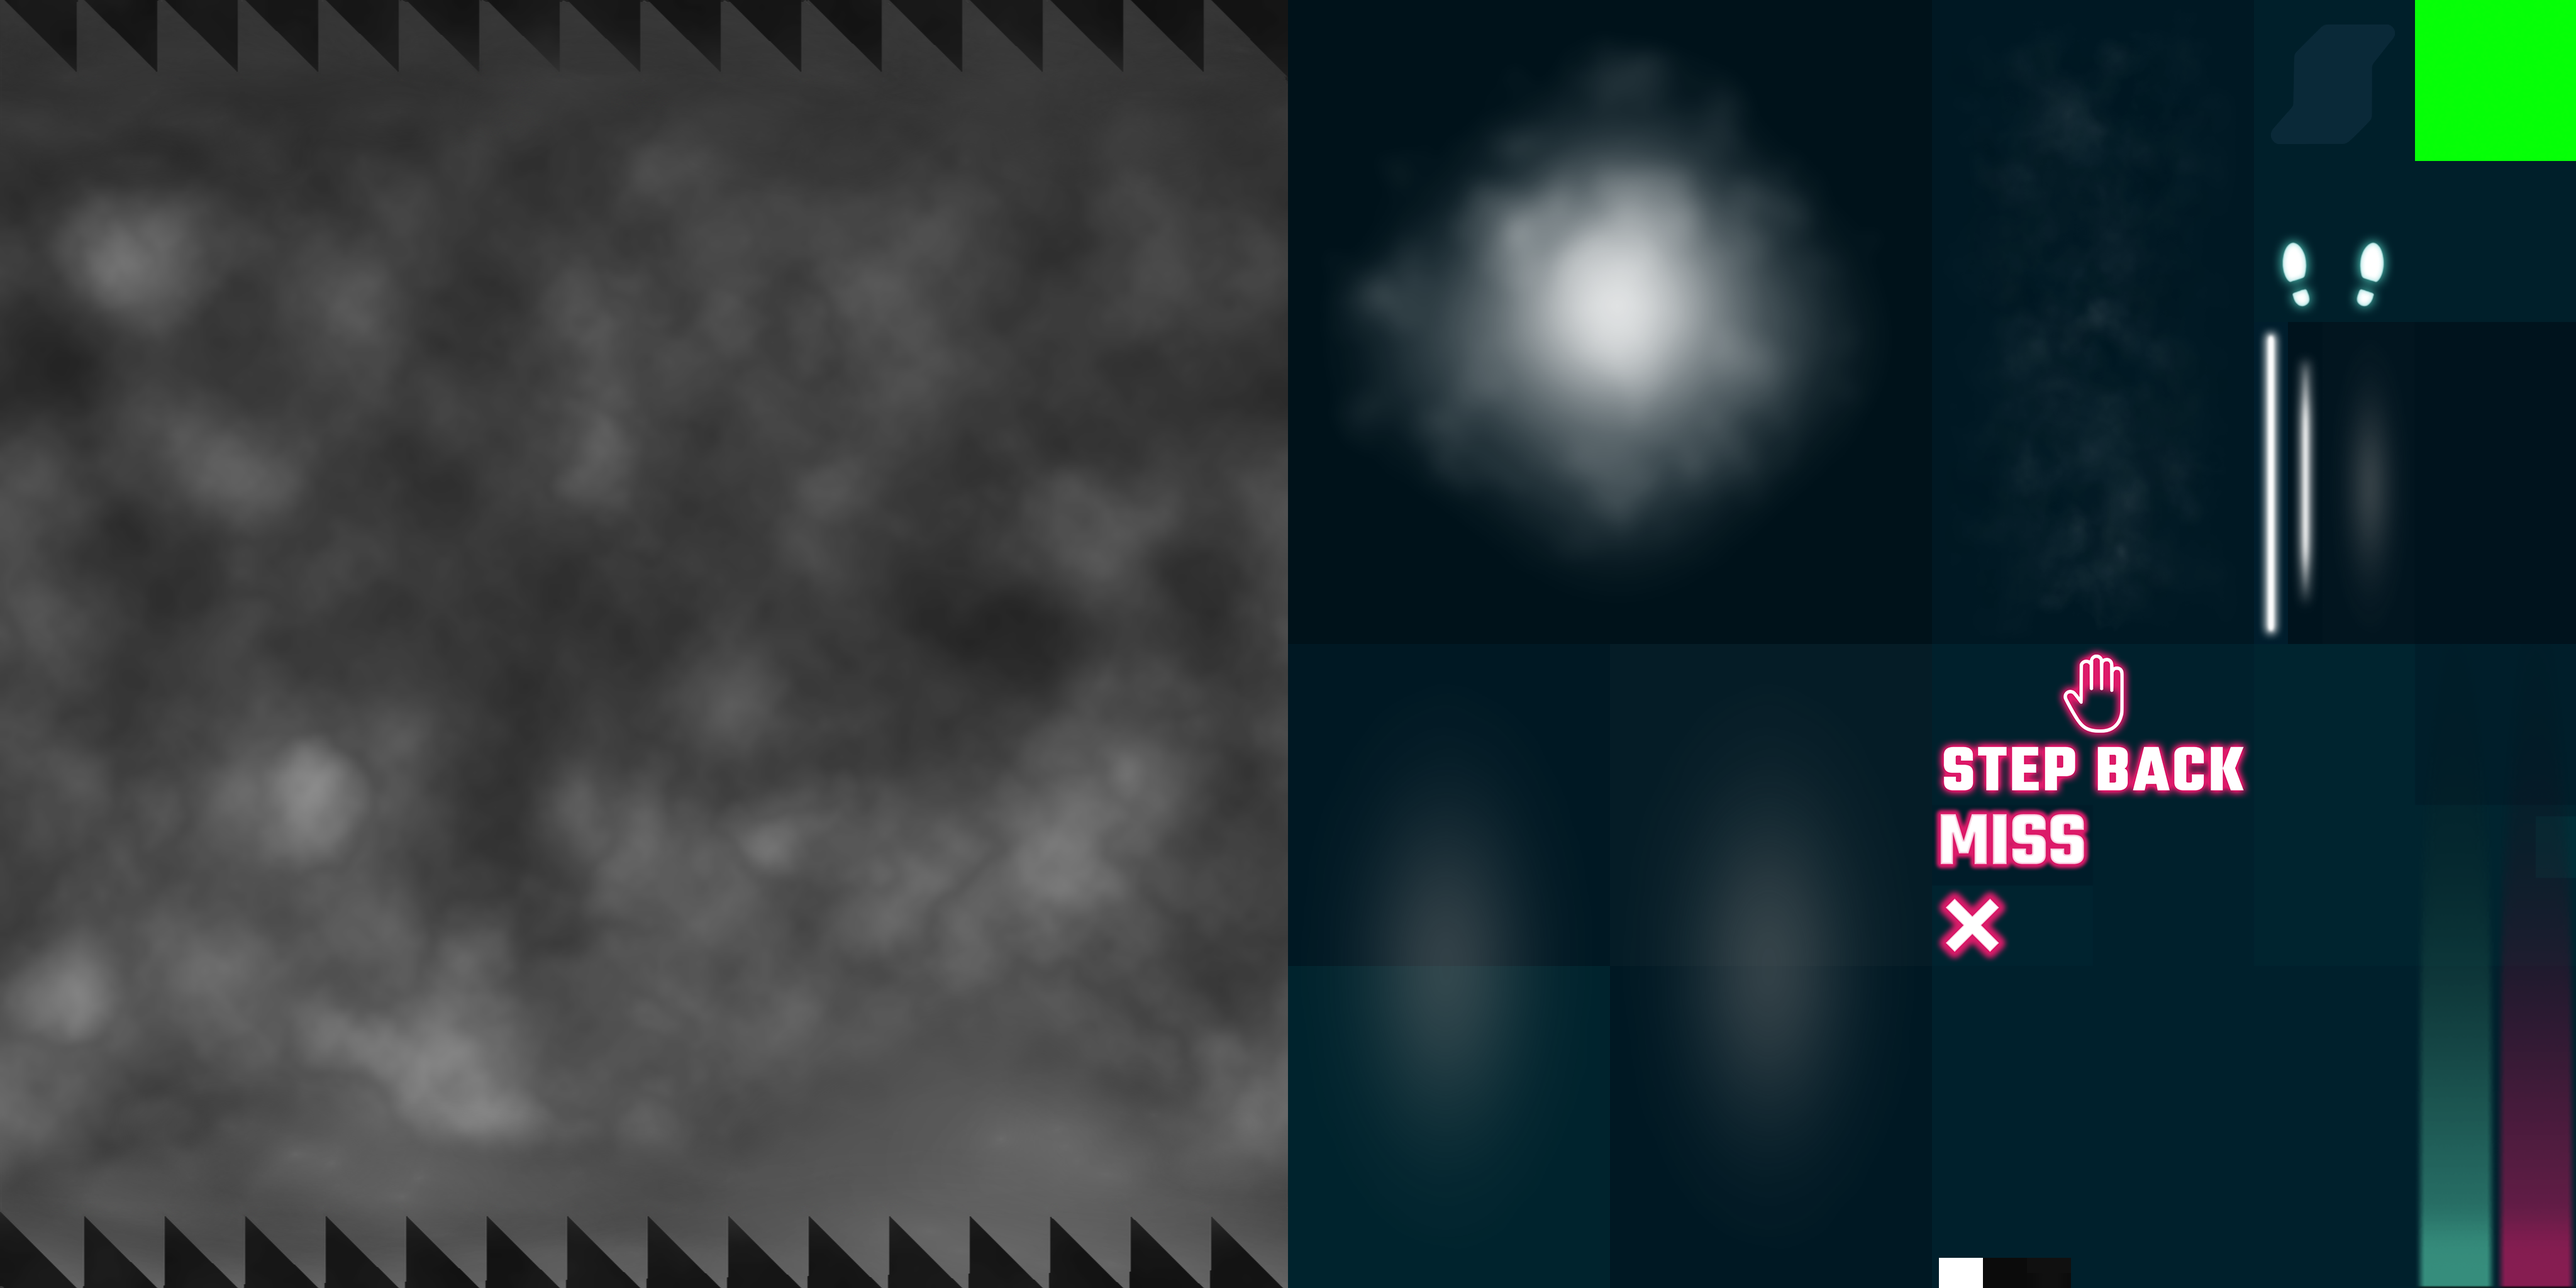
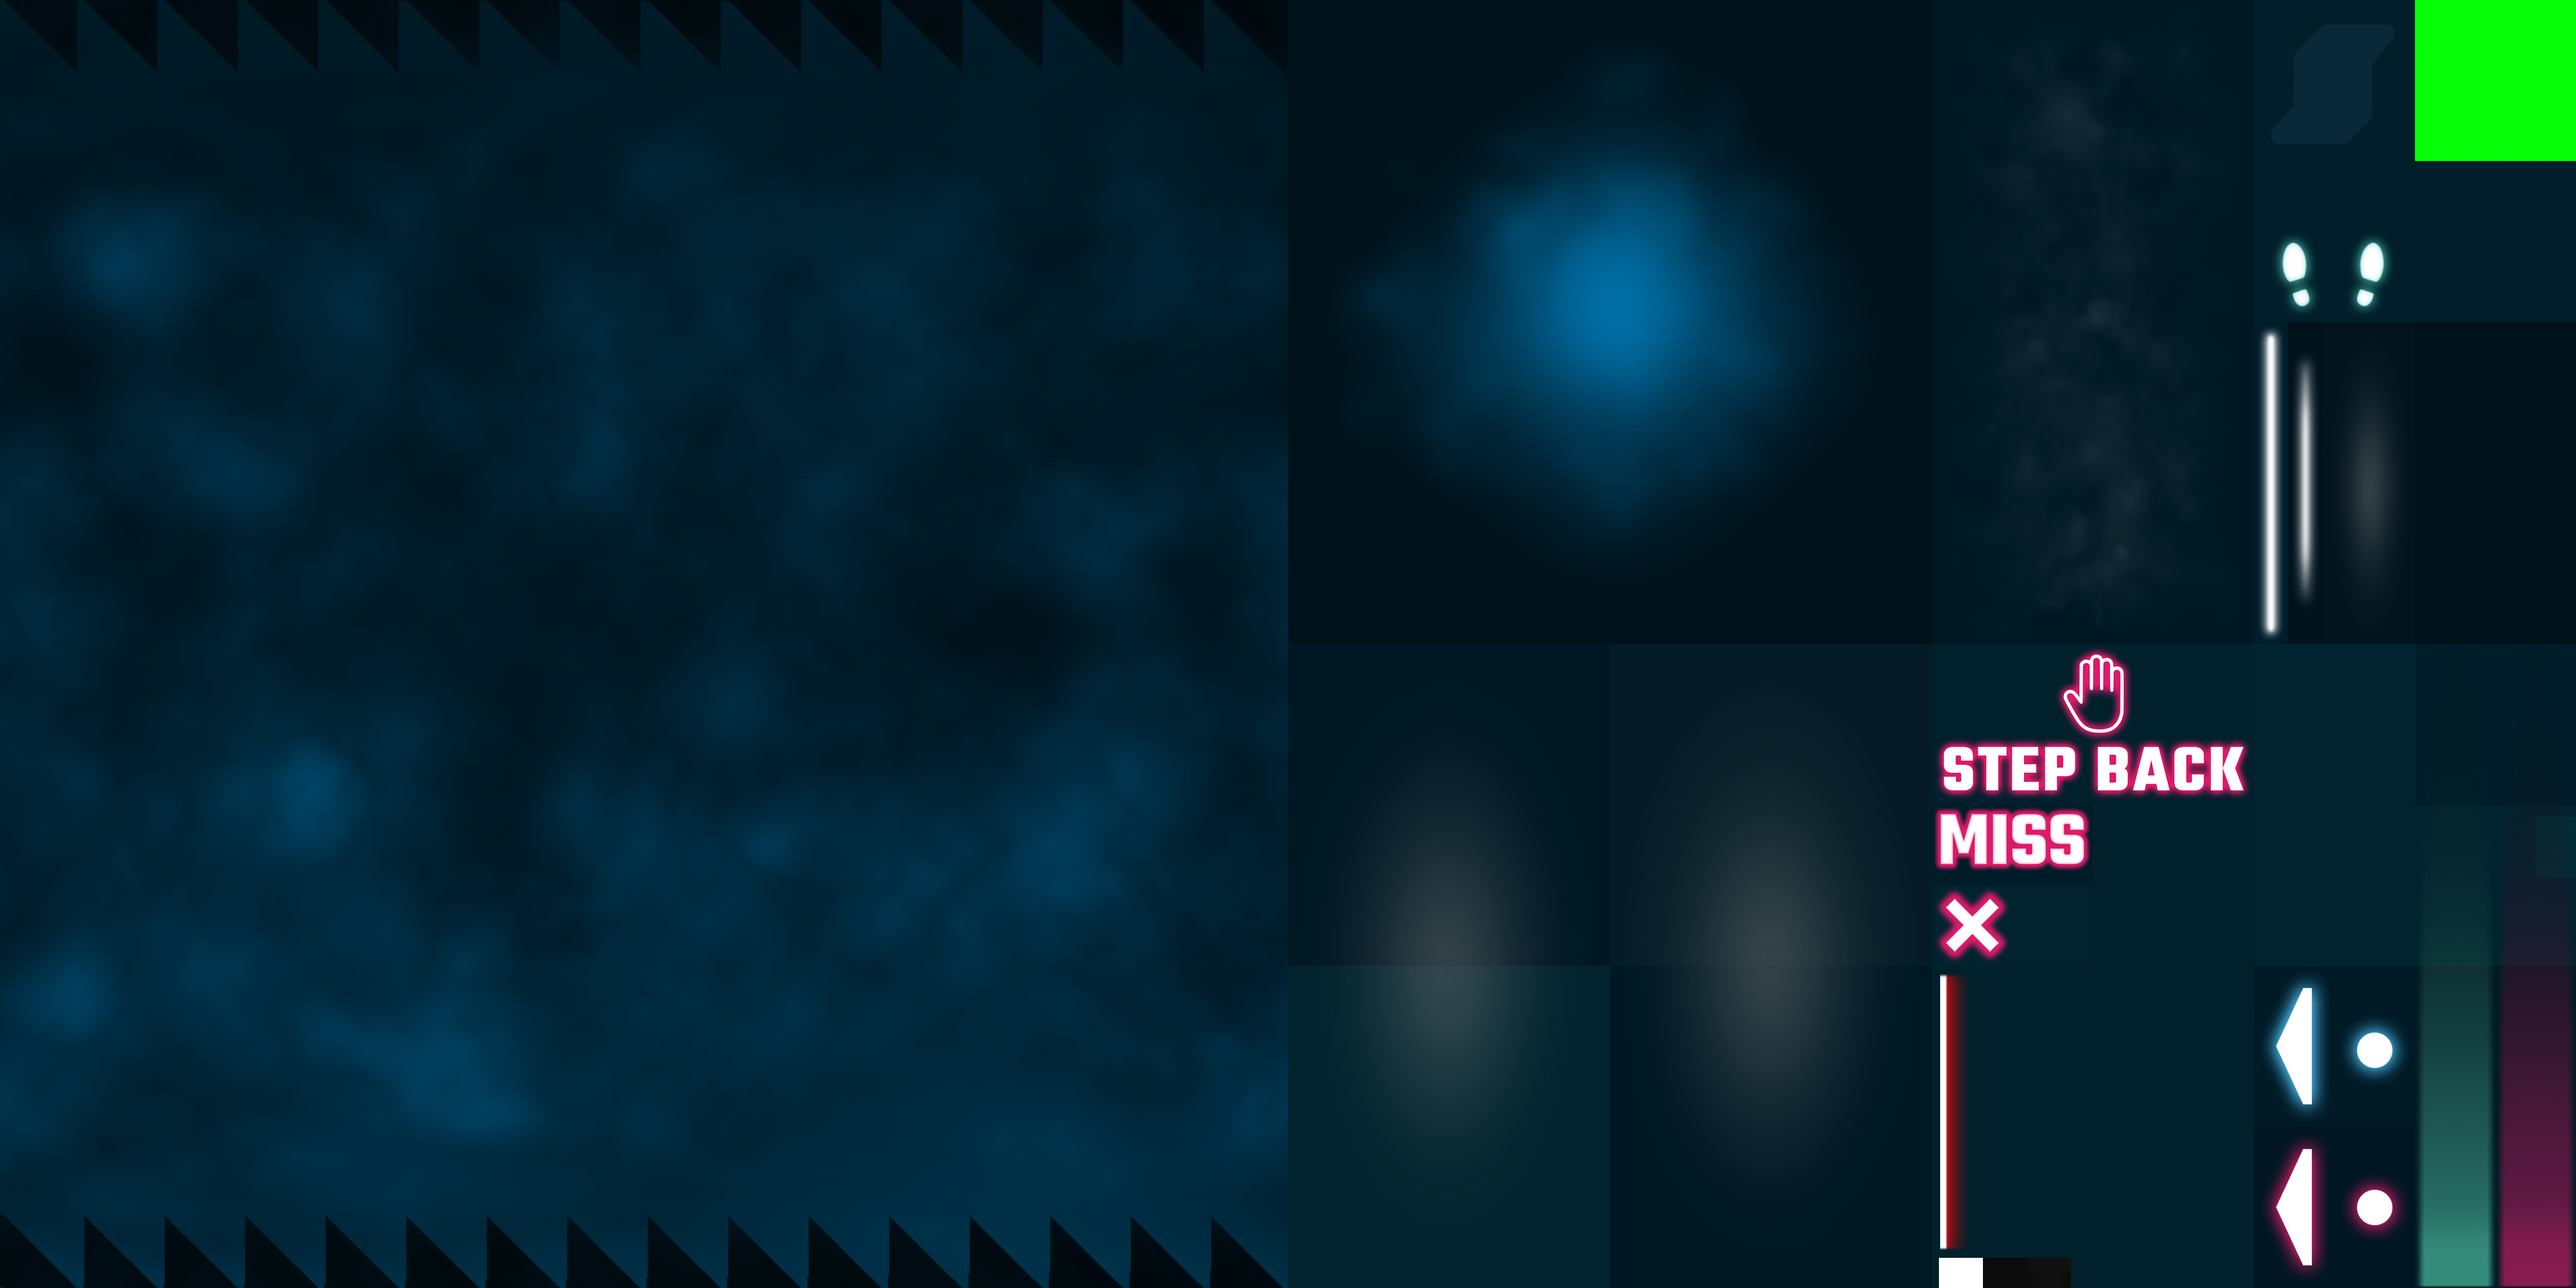
new glow in beat symbols

diff --git a/src/components/materials.js b/src/components/materials.js
@@ -1,4 +1,5 @@
-const stageShaders = require('../../assets/shaders/stage.js')
+const stageNormalShaders = require('../../assets/shaders/stageNormal.js')
+const stageAdditiveShaders = require('../../assets/shaders/stageAdditive.js')
 
 AFRAME.registerSystem('materials', {
   init: function () {
@@ -8,13 +9,27 @@ AFRAME.registerSystem('materials', {
 
     this.stageNormal = new THREE.ShaderMaterial({
       uniforms: {
-        color: {value: new THREE.Vector3(0, 0, 0) },
+        redColor: {value: new THREE.Vector3(1, 0, 0) },
+        blueColor: {value: new THREE.Vector3(0, 0, 1) },
         fogColor: {value: new THREE.Vector3(0, 0.48, 0.72) },
         src: {value: new THREE.TextureLoader().load(document.getElementById('atlasImg').src)},
       },
-      vertexShader: stageShaders.vertexShader,
-      fragmentShader: stageShaders.fragmentShader,
+      vertexShader: stageNormalShaders.vertexShader,
+      fragmentShader: stageNormalShaders.fragmentShader,
       fog: false,
+      transparent: true
+    });
+
+    this.stageAdditive = new THREE.ShaderMaterial({
+      uniforms: {
+        redColor: {value: new THREE.Vector3(1, 0, 0) },
+        blueColor: {value: new THREE.Vector3(0, 0, 1) },
+        src: {value: new THREE.TextureLoader().load(document.getElementById('atlasImg').src)},
+      },
+      vertexShader: stageAdditiveShaders.vertexShader,
+      fragmentShader: stageAdditiveShaders.fragmentShader,
+      fog: false,
+      blending: THREE.AdditiveBlending,
       transparent: true
     });
   }
@@ -27,6 +42,7 @@ AFRAME.registerComponent('materials', {
   },
 
   update: function () {
+    if (this.data.name === "") return;
     var mesh;
     var material = this.system[this.data.name];
     if (!material) {
@@ -42,10 +58,11 @@ AFRAME.registerComponent('materials', {
     }
   },
 
-  applyMaterial: function (obj, material) {
+  applyMaterial: function (obj) {
     var material = this.system[this.data.name];
+    if (obj['detail']) { obj = obj.detail.model; }
     if (this.data.recursive) {
-      obj.detail.model.traverse(o => {
+      obj.traverse(o => {
         if (o.type === 'Mesh') {
           o.material = material;
         }

diff --git a/src/components/beat.js b/src/components/beat.js
@@ -6,7 +6,6 @@ const BEAT_WARMUP_ROTATION_CHANGE = Math.PI / 5;
 const BEAT_WARMUP_ROTATION_OFFSET = 0.4;
 const BEAT_WARMUP_ROTATION_TIME = 750;
 const ONCE = {once: true};
-const SIGN_MATERIAL = {shader: 'flat', color: '#88f'};
 
 const SCORE_POOL = {
   OK : 'pool__beatscoreok',
@@ -50,8 +49,10 @@ AFRAME.registerComponent('beat', {
   },
 
   signModels: {
-    arrow: 'arrowObjTemplate',
-    dot: 'dotObjTemplate'
+    arrowred: 'arrowRedObjTemplate',
+    arrowblue: 'arrowBlueObjTemplate',
+    dotred: 'dotRedObjTemplate',
+    dotblue: 'dotBlueObjTemplate'
   },
 
   orientations: [180, 0, 270, 90, 225, 135, 315, 45, 0],
@@ -273,8 +274,8 @@ AFRAME.registerComponent('beat', {
         }, ONCE);
       }
     } else {
-      signEl.setAttribute('material', SIGN_MATERIAL);
-      this.setObjModelFromTemplate(signEl, this.signModels[this.data.type]);
+      signEl.setAttribute('materials', {name: 'stageAdditive'});
+      this.setObjModelFromTemplate(signEl, this.signModels[this.data.type + this.data.color]);
     }
   },
 
@@ -628,6 +629,7 @@ AFRAME.registerComponent('beat', {
 
   returnToPool: function (force) {
     if (!this.backToPool && !force) { return; }
+    console.log('returning ' + this.poolName + ' to pool');
     this.el.sceneEl.components[this.poolName].returnEntity(this.el);
   },
 

diff --git a/src/index.html b/src/index.html
@@ -60,9 +60,11 @@
         {% include './assets.html' %}
       </a-assets>
 
-      <a-entity id="arrowObjTemplate" obj-model="obj: #arrowObj" visible="false"></a-entity>
       <a-entity id="beatObjTemplate" obj-model="obj: #beatObj" visible="false"></a-entity>
-      <a-entity id="dotObjTemplate" obj-model="obj: #dotObj" visible="false"></a-entity>
+      <a-entity id="arrowRedObjTemplate" obj-model="obj: #arrowredObj" visible="false"></a-entity>
+      <a-entity id="arrowBlueObjTemplate" obj-model="obj: #arrowblueObj" visible="false"></a-entity>
+      <a-entity id="dotRedObjTemplate" obj-model="obj: #dotredObj" visible="false"></a-entity>
+      <a-entity id="dotBlueObjTemplate" obj-model="obj: #dotblueObj" visible="false"></a-entity>
       <a-entity id="mineObjTemplate" obj-model="obj: #mineObj" visible="false"></a-entity>
       <a-entity id="cursorLaser" obj-model="obj: #laserObj" visible="false"></a-entity>
 

diff --git a/src/assets.html b/src/assets.html
@@ -1,7 +1,9 @@
-<a-asset-item id="arrowObj" src="assets/models/arrow.obj"></a-asset-item>
+<a-asset-item id="arrowredObj" src="assets/models/arrowred.obj"></a-asset-item>
+<a-asset-item id="arrowblueObj" src="assets/models/arrowblue.obj"></a-asset-item>
+<a-asset-item id="dotredObj" src="assets/models/dotred.obj"></a-asset-item>
+<a-asset-item id="dotblueObj" src="assets/models/dotblue.obj"></a-asset-item>
 <a-asset-item id="backglowObj" src="assets/models/backglow.obj"></a-asset-item>
 <a-asset-item id="beatObj" src="assets/models/beat.obj"></a-asset-item>
-<a-asset-item id="dotObj" src="assets/models/dot.obj"></a-asset-item>
 <a-asset-item id="logofrontObj" src="assets/models/logofront.obj"></a-asset-item>
 <a-asset-item id="logobackObj" src="assets/models/logoback.obj"></a-asset-item>
 <a-asset-item id="logofrontUObj" src="assets/models/logofront-u.obj"></a-asset-item>

diff --git a/assets/shaders/stageNormal.js b/assets/shaders/stageNormal.js
@@ -1,0 +1,29 @@
+module.exports = {
+  vertexShader : `
+    varying vec2 uvs;
+    varying vec3 worldPos;
+    void main() {
+      uvs.xy = uv.xy;
+      vec4 p = projectionMatrix * modelViewMatrix * vec4( position, 1.0 );
+      worldPos = (modelMatrix * vec4( position, 1.0 )).xyz;
+      gl_Position = p;
+    }
+  `,
+
+  fragmentShader: `
+    #define FOG_RADIUS  50.0
+    #define FOG_FALLOFF 45.0
+    varying vec2 uvs;
+    varying vec3 worldPos;
+    uniform vec3 redColor;
+    uniform vec3 blueColor;
+    uniform vec3 fogColor;
+    uniform sampler2D src;
+
+    void main() {
+      vec4 col = texture2D(src, uvs);
+      col.xyz = mix(fogColor, col.xyz, clamp(distance(worldPos, vec3(0., 0., -FOG_RADIUS)) / FOG_FALLOFF, 0., 1.));
+      gl_FragColor = col;
+    }
+  `
+};

diff --git a/assets/shaders/stageAdditive.js b/assets/shaders/stageAdditive.js
@@ -11,17 +11,14 @@ module.exports = {
   `,
 
   fragmentShader: `
-    #define FOG_RADIUS  50.0
-    #define FOG_FALLOFF 45.0
     varying vec2 uvs;
     varying vec3 worldPos;
-    uniform vec3 color;
-    uniform vec3 fogColor;
+    uniform vec3 redColor;
+    uniform vec3 blueColor;
     uniform sampler2D src;
 
     void main() {
       vec4 col = texture2D(src, uvs);
-      col.xyz = mix(fogColor, col.xyz, clamp(distance(worldPos, vec3(0., 0., -FOG_RADIUS)) / FOG_FALLOFF, 0., 1.));
       gl_FragColor = col;
     }
   `

diff --git a/src/templates/stage.html b/src/templates/stage.html
@@ -92,7 +92,7 @@
   <a-entity
     id="stageadditiveobj"
     obj-model="obj: #stageAdditiveObj"
-    material="shader: flat; color: #f00; src: #atlasImg; transparent: true; blending: additive; depthWrite: false; fog: false"></a-entity>
+    materials="name: stageAdditive"></a-entity>
 
 
   <!-- Lasers left. -->
